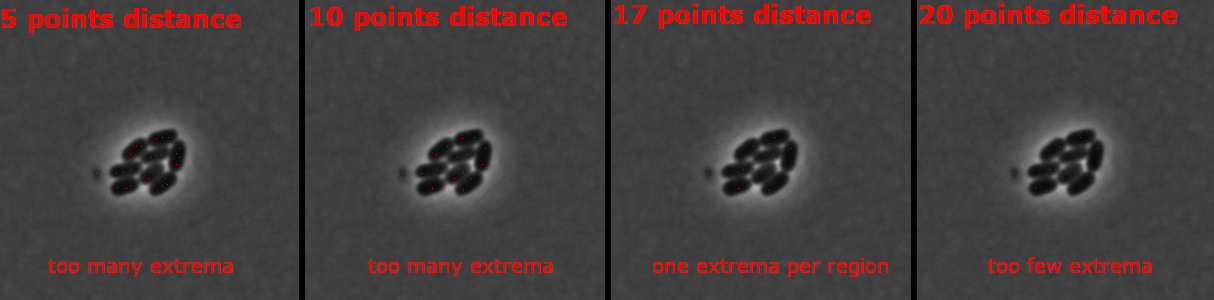
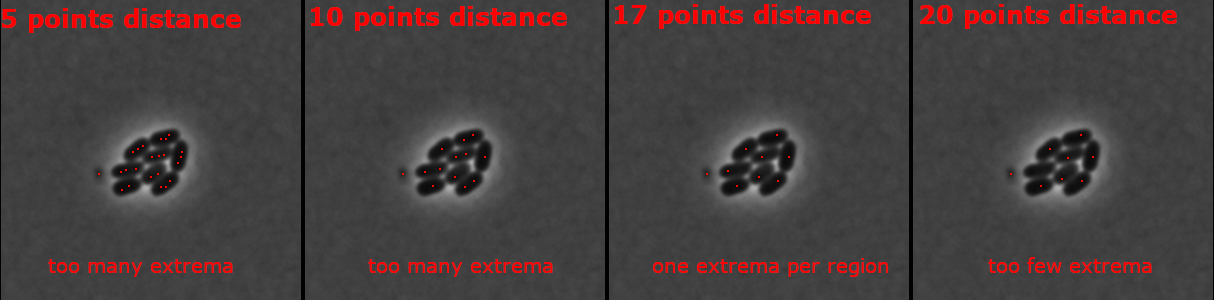
docs: make bigger points for extrema

diff --git a/docs/Tutorials/Image segmentation with watershed.md b/docs/Tutorials/Image segmentation with watershed.md
@@ -199,7 +199,7 @@ const filteredPoints = removeClosePoints(points, blurredImage, {
 
 And this is how extrema will now be situated:
 
-![Extrema positions](./images/watershed/17Cross5ISODATA.jpg)
+![Extrema positions](./images/watershed/ISODATATransformTest.png)
 
 ## Applying watershed
 
